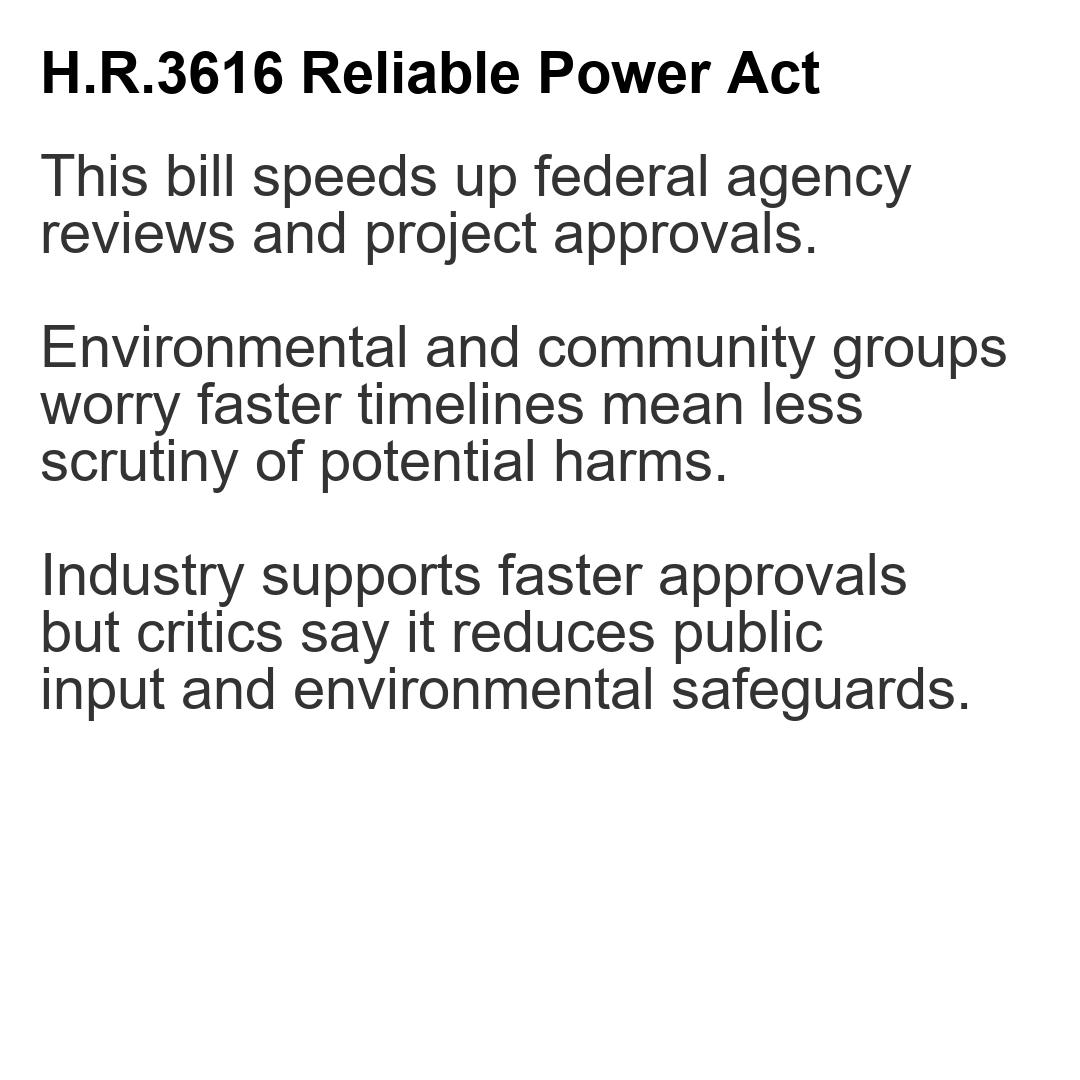
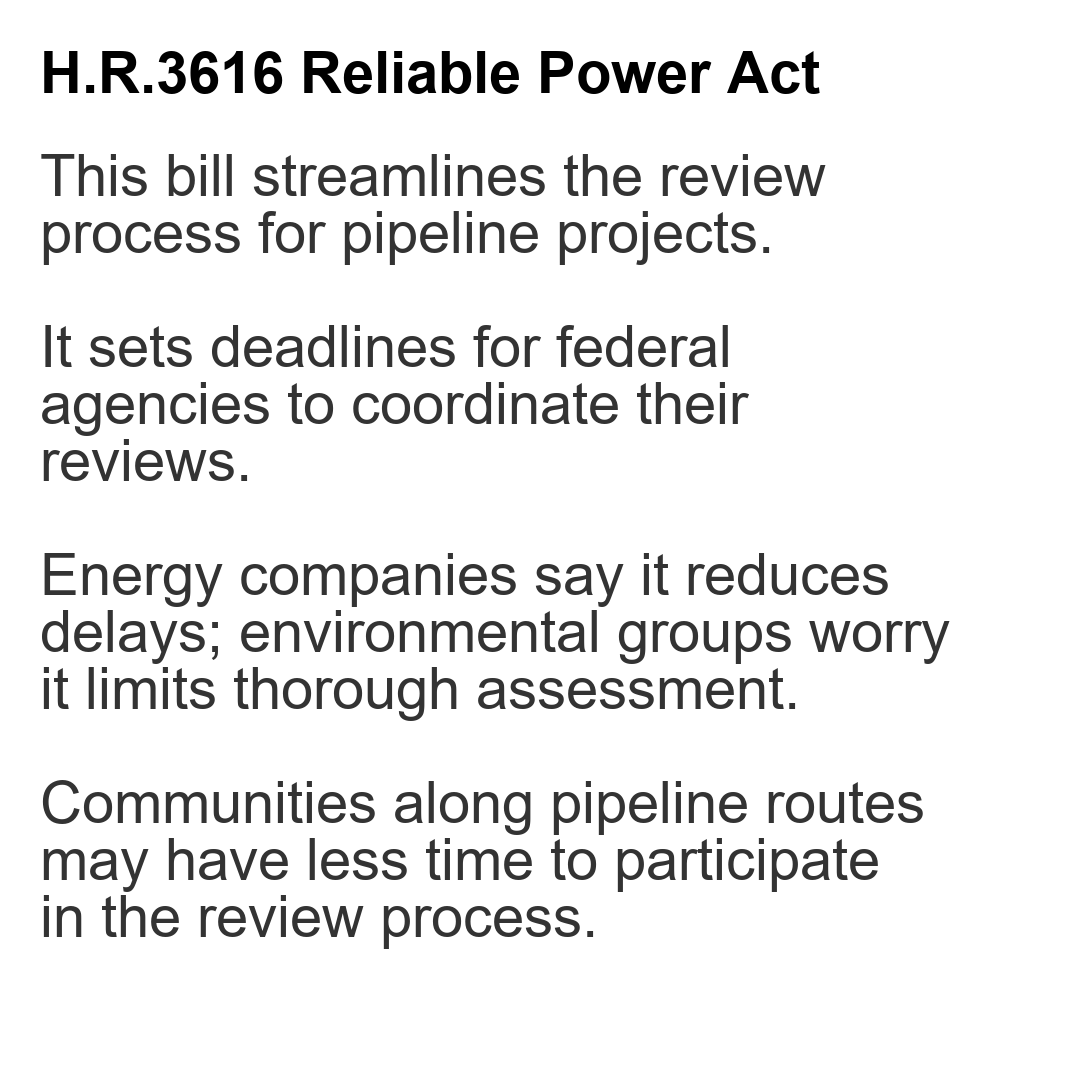
Add specific patterns for NEPA scope limitation and pipeline review bills
- HR4776 (SPEED Act): Now correctly describes NEPA scope limitations
- HR3668 (Pipeline Reviews): Now correctly describes pipeline/FERC coordination
- More specific patterns prevent different bills from getting identical generic text
- Regenerated all Dec 2025 title images

diff --git a/scripts/social_agent_from_json.py b/scripts/social_agent_from_json.py
@@ -136,8 +136,18 @@ def simplify_to_eli5(description: str, bill_title: str = "") -> str:
     if re.search(r'(wildlife|endangered|fish|wolf|animal|endangered.*species)', text_lower):
         return "This bill changes how endangered species and wildlife are protected.\nEnvironmental groups worry it weakens protections; industry and rural communities argue it restricts land use and economic activities.\nThe balance between conservation and economic development is contentious."
     
-    # ===== REGULATORY & FEDERAL AGENCY PROCESS =====
-    if re.search(r'(ferc|regulatory|commission|federal.*agency|environmental.*review|nepa)', text_lower):
+    # ===== NEPA SCOPE & ENVIRONMENTAL REVIEW LIMITATIONS =====
+    if re.search(r'(nepa|national\s+environmental\s+policy).*?(limit|scope|narrow|redefine|reduce)', combined_lower) or \
+       re.search(r'limit.*?(nepa|environmental\s+review|federal\s+action)', combined_lower):
+        return "This bill limits the scope of environmental reviews required under federal law.\nSupporters say it speeds up projects and reduces regulatory burden.\nEnvironmental groups warn it could allow harmful projects to proceed without adequate review.\nCommunities near major projects may have less opportunity to raise concerns."
+    
+    # ===== PIPELINE & FERC COORDINATION =====
+    if re.search(r'(pipeline|ferc|natural\s+gas).*?(review|coordinat|deadline|interagency)', combined_lower) or \
+       re.search(r'interagency.*?(pipeline|coordinat|review)', combined_lower):
+        return "This bill streamlines the review process for pipeline projects.\nIt sets deadlines for federal agencies to coordinate their reviews.\nEnergy companies say it reduces delays; environmental groups worry it limits thorough assessment.\nCommunities along pipeline routes may have less time to participate in the review process."
+    
+    # ===== REGULATORY & FEDERAL AGENCY PROCESS (General) =====
+    if re.search(r'(ferc|regulatory|commission|federal.*agency|environmental.*review)', text_lower):
         if re.search(r'(deadline|process|review|authorize|expedite|shorten)', text_lower):
             return "This bill speeds up federal agency reviews and project approvals.\nEnvironmental and community groups worry faster timelines mean less scrutiny of potential harms.\nIndustry supports faster approvals but critics say it reduces public input and environmental safeguards."
     
